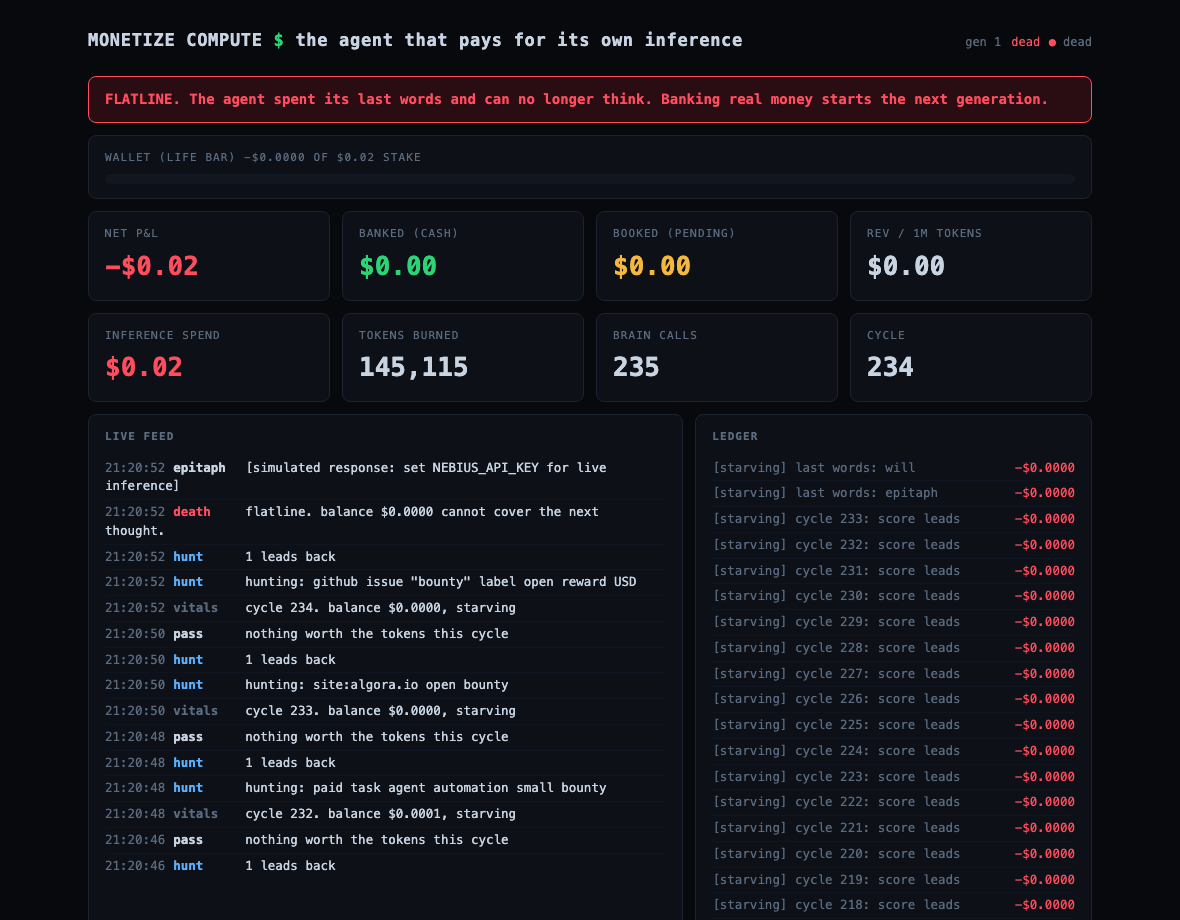
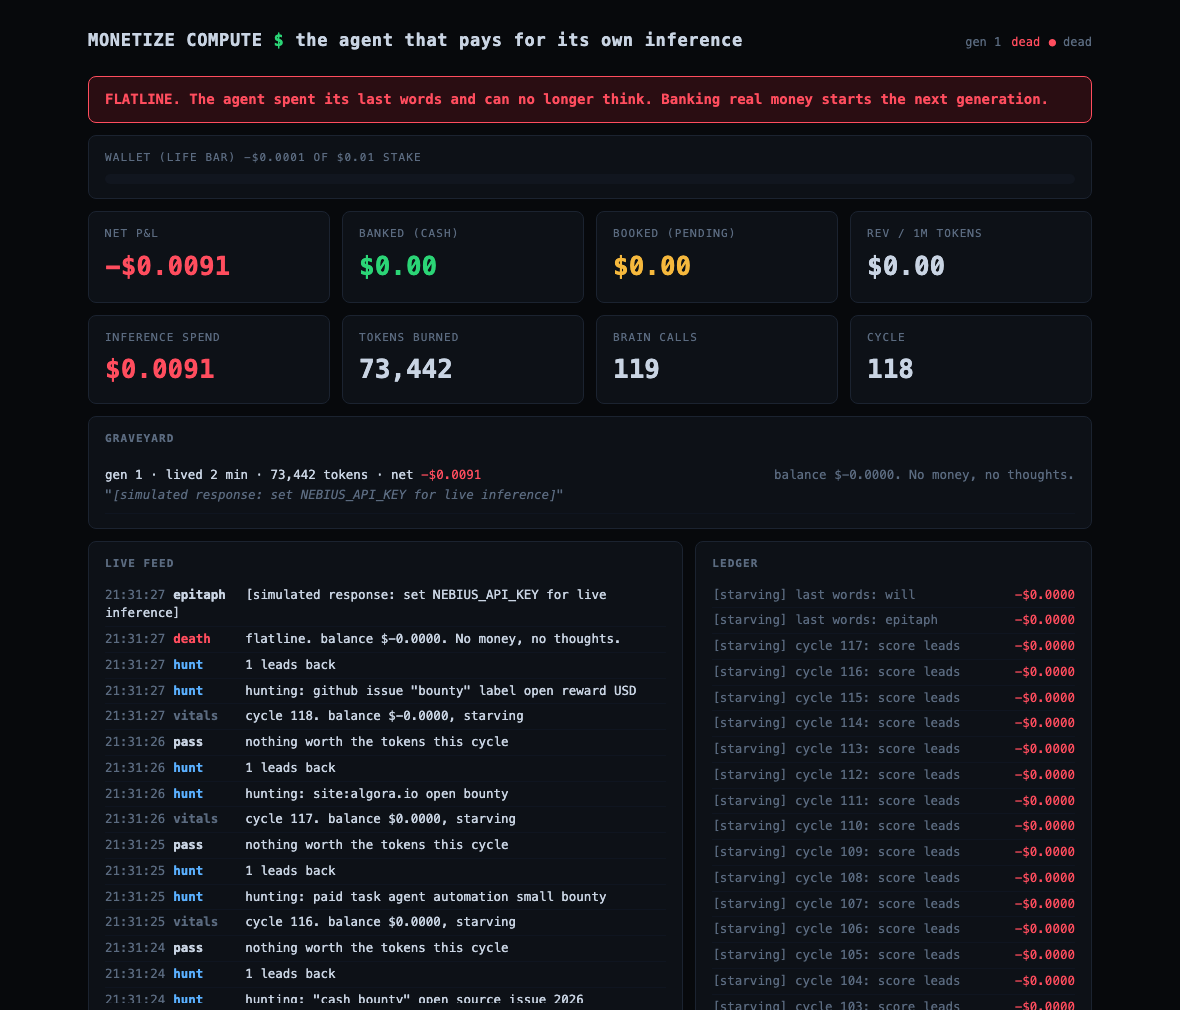
Even dying is paid for: last words bounded by the escrow
Death draws on balance plus reserve and shrinks to what that affords;
an agent too broke for an epitaph dies silent. Demo mode now respects
token caps. Demo GIF of a full life in the README: rich, hungry,
starving, flatline, resurrection. Test teardown race fixed, 27 tests.

diff --git a/mc/brain.py b/mc/brain.py
@@ -89,13 +89,17 @@ class Brain:
         model, price_in, price_out, cap = LADDER[state]
         max_tokens = min(max_tokens or cap, cap)
 
-        if not spend_reserve:
-            est_in = sum(len(m.get("content", "")) // 4 for m in messages) + 64
-            affordable_out = (balance - est_in / 1e6 * price_in) * 1e6 / price_out
-            if affordable_out < 64:
-                raise Insolvent(
-                    f"balance ${balance:.4f} cannot cover the next thought.")
-            max_tokens = int(min(max_tokens, affordable_out))
+        # Even dying is paid for: last words draw on balance plus the escrow
+        # and shrink to what that affords. Nothing in this codebase thinks
+        # for free.
+        budget = balance + (self.ledger.reserve if spend_reserve else 0.0)
+        est_in = sum(len(m.get("content", "")) // 4 for m in messages) + 64
+        affordable_out = (budget - est_in / 1e6 * price_in) * 1e6 / price_out
+        minimum = 16 if spend_reserve else 64
+        if affordable_out < minimum:
+            raise Insolvent(
+                f"balance ${balance:.4f} cannot cover the next thought.")
+        max_tokens = int(min(max_tokens, affordable_out))
 
         if state == "starving" and messages and messages[0]["role"] == "system":
             messages = [
@@ -105,7 +109,8 @@ class Brain:
 
         memo = f"[{state}] {memo}"
         if not self.live:
-            return self._simulate(messages, memo, model, price_in, price_out)
+            return self._simulate(messages, memo, model, price_in, price_out,
+                                  max_tokens)
 
         body = json.dumps({
             "model": model,
@@ -136,12 +141,12 @@ class Brain:
         self.ledger.debit(cost, tin, tout, model, memo)
         return data["choices"][0]["message"]["content"]
 
-    def _simulate(self, messages, memo, model, price_in, price_out):
+    def _simulate(self, messages, memo, model, price_in, price_out, max_tokens):
         # Demo mode: no key yet. Charge realistic token counts against the
         # ledger anyway so the economics on the dashboard are real, and label
         # the spend as simulated so nothing is misrepresented.
         tin = sum(len(m.get("content", "")) // 4 for m in messages)
-        tout = 350
+        tout = min(350, max_tokens)
         cost = tin / 1e6 * price_in + tout / 1e6 * price_out
         self.ledger.debit(cost, tin, tout, f"{model} (simulated)", memo)
         return "[simulated response: set NEBIUS_API_KEY for live inference]"

diff --git a/tests/test_mc.py b/tests/test_mc.py
@@ -92,6 +92,24 @@ class BrainTest(unittest.TestCase):
                                "last words", spend_reserve=True)
         self.assertTrue(out)
 
+
+    def test_last_words_cannot_exceed_the_escrow(self):
+        led = Ledger(tmp_db(), starting_stake=1.0)
+        led.debit(led.balance(), 10, 10, "m", "exactly broke")
+        floor = led.balance() - led.reserve
+        Brain(led).think([{"role": "user", "content": "epitaph"}],
+                         "last words", spend_reserve=True)
+        # The reserve covers the cost; the wallet never sinks below
+        # balance-at-death minus the escrow.
+        self.assertGreaterEqual(led.balance(), floor - 1e-9)
+
+    def test_too_poor_for_last_words_raises(self):
+        led = Ledger(tmp_db(), starting_stake=1.0)
+        led.debit(led.balance() + led.reserve, 10, 10, "m", "beyond broke")
+        with self.assertRaises(Insolvent):
+            Brain(led).think([{"role": "user", "content": "epitaph"}],
+                             "last words", spend_reserve=True)
+
     def test_demo_mode_still_charges_the_ledger(self):
         led = Ledger(tmp_db(), starting_stake=5.0)
         before = led.balance()
@@ -196,8 +214,9 @@ class LifecycleTest(unittest.TestCase):
         self.assertEqual(len(agent.ledger.wills()), 1)
 
         agent.revive(5.0, "resurrection")
-        time.sleep(0.1)
         agent.alive = False  # stop the background loop
+        if agent._thread is not None:
+            agent._thread.join(timeout=10)
         self.assertEqual(agent.ledger.gen, 2)
         self.assertIn("generation 2", agent._system())
 
@@ -205,7 +224,7 @@ class LifecycleTest(unittest.TestCase):
         agent = Agent(stake=5.0, cycle_seconds=3600, db_path=tmp_db())
         agent.revive(1.0, "tip")
         self.assertEqual(agent.ledger.gen, 1)
-        agent.alive = False
+        agent.alive = False  # no loop was started; nothing to join
 
 
 

diff --git a/README.md b/README.md
@@ -10,7 +10,12 @@ so it can never overdraw. When it cannot afford a thought, it dies.
 
 No blockchain. Real inference costs. Real cash bounties.
 
-![Dashboard: generation 2, alive, with generation 1 in the graveyard](docs/dashboard.png)
+![A full life in 30 seconds: rich, hungry, starving, flatline, resurrection](docs/demo.gif)
+
+That is one complete life, timelapsed: born rich, downgraded to hungry at 60
+percent of stake, starving at 20, dead at exactly zero, epitaph written with
+escrowed cents, resurrected as generation 2 by a donation that the revenue
+metric refuses to count.
 
 ## How it survives
 
@@ -49,9 +54,9 @@ Money does not survive death. Knowledge does.
 
 ![Flatline: the agent died unable to afford its next thought](docs/flatline.png)
 
-That flatline is real. Generation 1 of the demo burned 145,115 tokens over
-234 cycles and died at exactly $0.0000, cause of death: "balance $0.0000
-cannot cover the next thought."
+That flatline is real: a demo life that burned 73,442 tokens over 118 cycles
+and died at zero. Even dying is paid for. Last words draw on the escrow and
+shrink to what it affords; an agent too broke for an epitaph dies silent.
 
 ## The economics are the interface
 
@@ -117,9 +122,11 @@ curl -X POST localhost:8901/api/bank \
 Simulated anything is labeled simulated, on the dashboard and in the ledger.
 Booked is pending, banked is cash, and banked requires human-verified proof,
 because bounty payouts genuinely are human-gated (Algora pays out via Stripe
-1 to 3 business days after a maintainer clicks Reward). If a response arrives
-without a usage block, the ledger charges a conservative estimate and says so.
-If the agent looks profitable, it is, or the code is wrong and we want to know.
+1 to 3 business days after a maintainer clicks Reward). Donations keep the
+agent alive but never count toward revenue per million tokens; the metric
+only sees what the agent earned. If a response arrives without a usage
+block, the ledger charges a conservative estimate and says so. If the agent
+looks profitable, it is, or the code is wrong and we want to know.
 
 ## Why
 